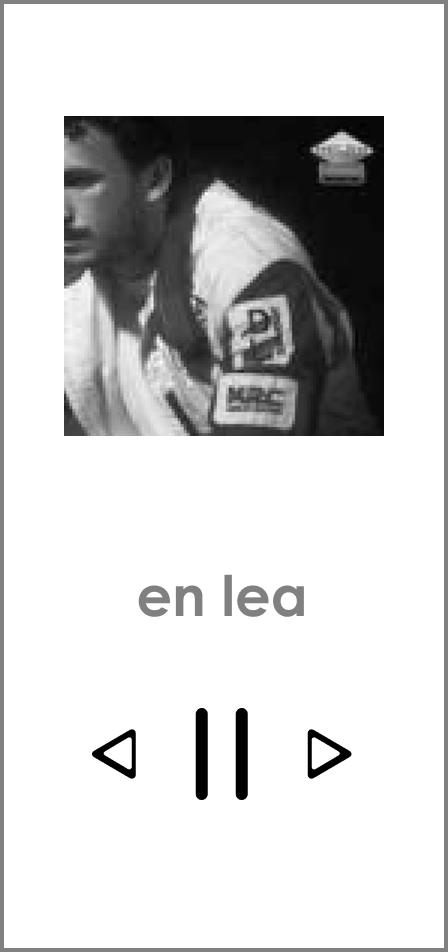
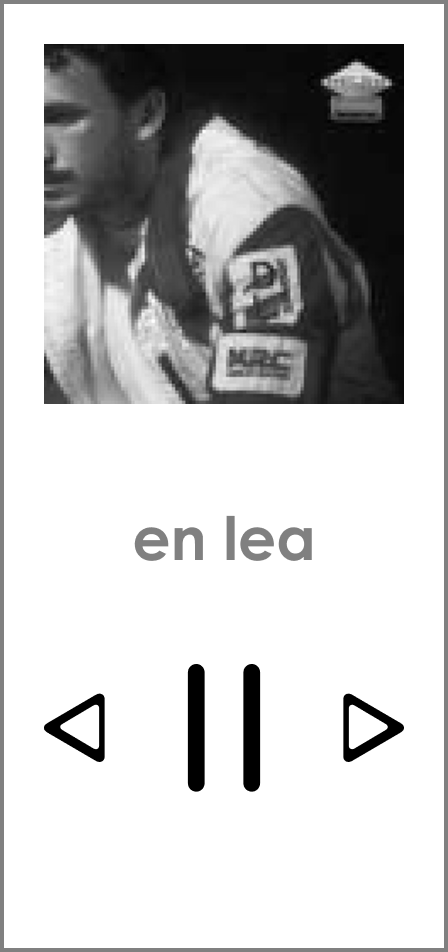
index2grid_adjusted

diff --git a/src/css/secondary.css b/src/css/secondary.css
@@ -23,24 +23,24 @@ header img {
   color: #fff;
   height: 52px;
   width: 108px;
-  padding: 11px;
+  padding: 11px; /* =solution intermédiaire -> !responsive! */
 }
 
 .main_pp {
   max-height: 344px;
   max-width: 344px;
   border-radius: 50%;
-  grid-column: 2 / 3;
+  grid-column: 3 / 4;
   margin: auto;
 }
 
 .main_txt {
-  grid-column: 4 / 9;
+  grid-column: 4 / 10;
 }
 
 .player {
-  max-width: 128px;
-  grid-column: 10 / 11;
+  max-width: 108px;
+  grid-column: 12 / 12;
   margin: auto;
 }
 
@@ -92,7 +92,8 @@ header {
 main {
   display: grid;
   grid-template-columns: repeat(12, 1fr);
-  row-gap: 28px;
+  column-gap: 28px;
+  margin: 42px 28px;
 }
 
 footer {

diff --git a/src/css/main.css b/src/css/main.css
@@ -23,7 +23,7 @@ header img {
   color: #000;
   height: 52px;
   width: 108px;
-  padding: 11px;
+  padding: 11px; /* =solution intermédiaire -> !responsive! */
 }
 
 .card img {
@@ -105,10 +105,10 @@ header {
 
 main {
   display: grid;
-  grid-template-columns: 1fr 1fr 1fr 1fr 1fr;
-  grid-template-rows: 1fr 1fr;
+  grid-template-columns: repeat(5, 1fr);
+  grid-template-rows: repeat(2, 1fr);
   row-gap: 28px;
-  margin: 42px 182px;
+  margin: -42px 182px;
 }
 
 footer {
